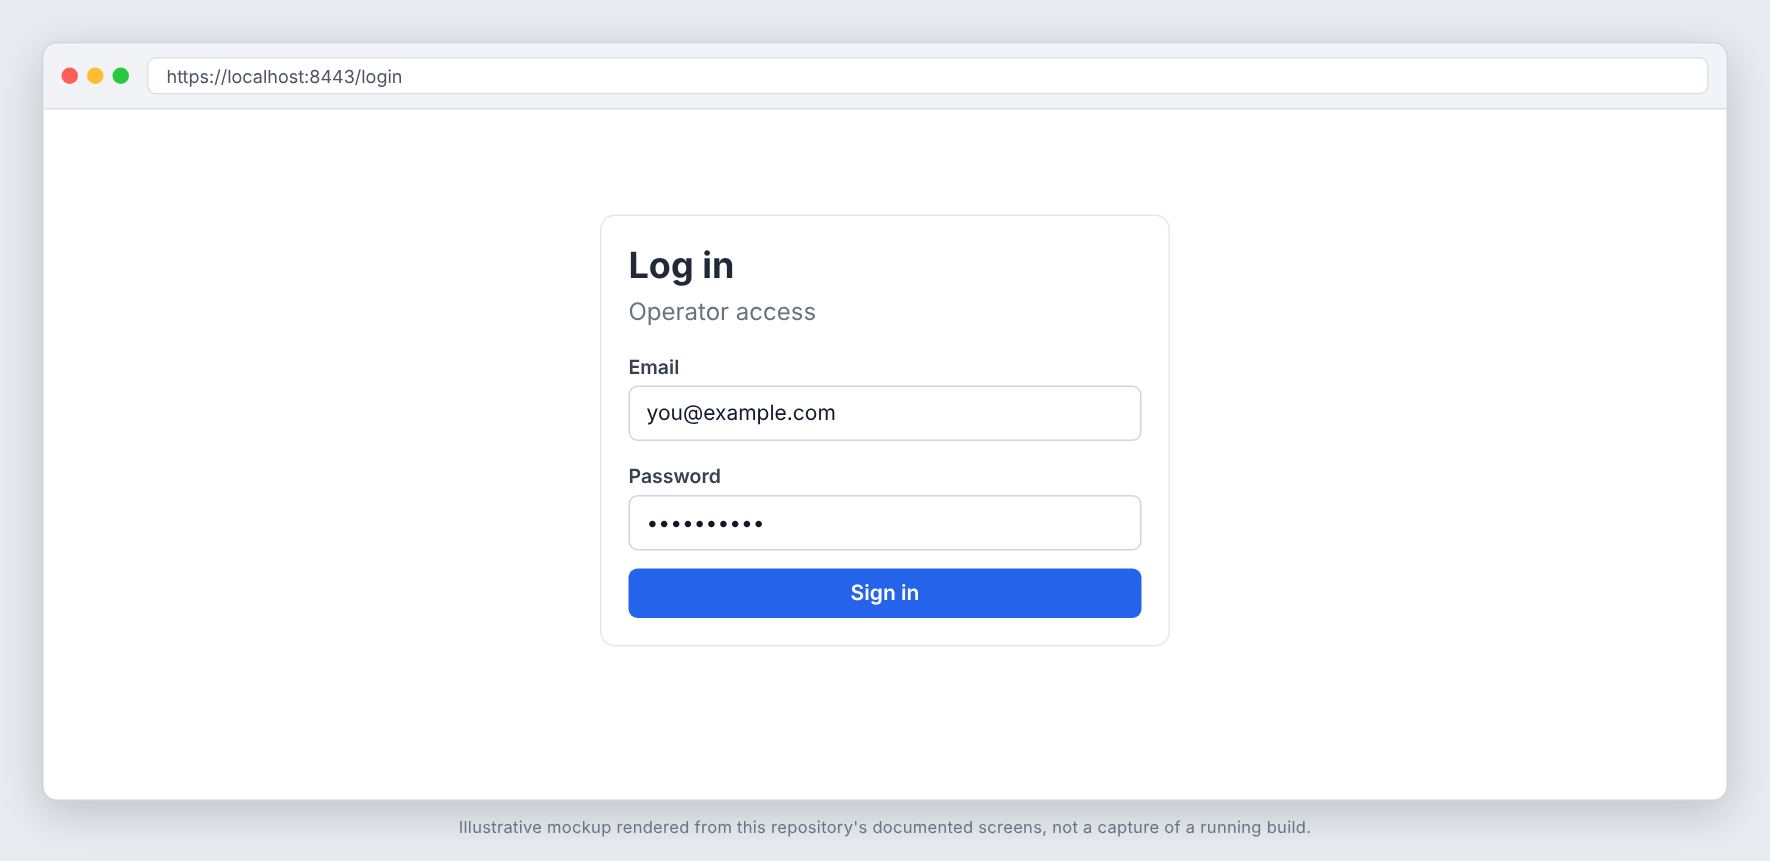
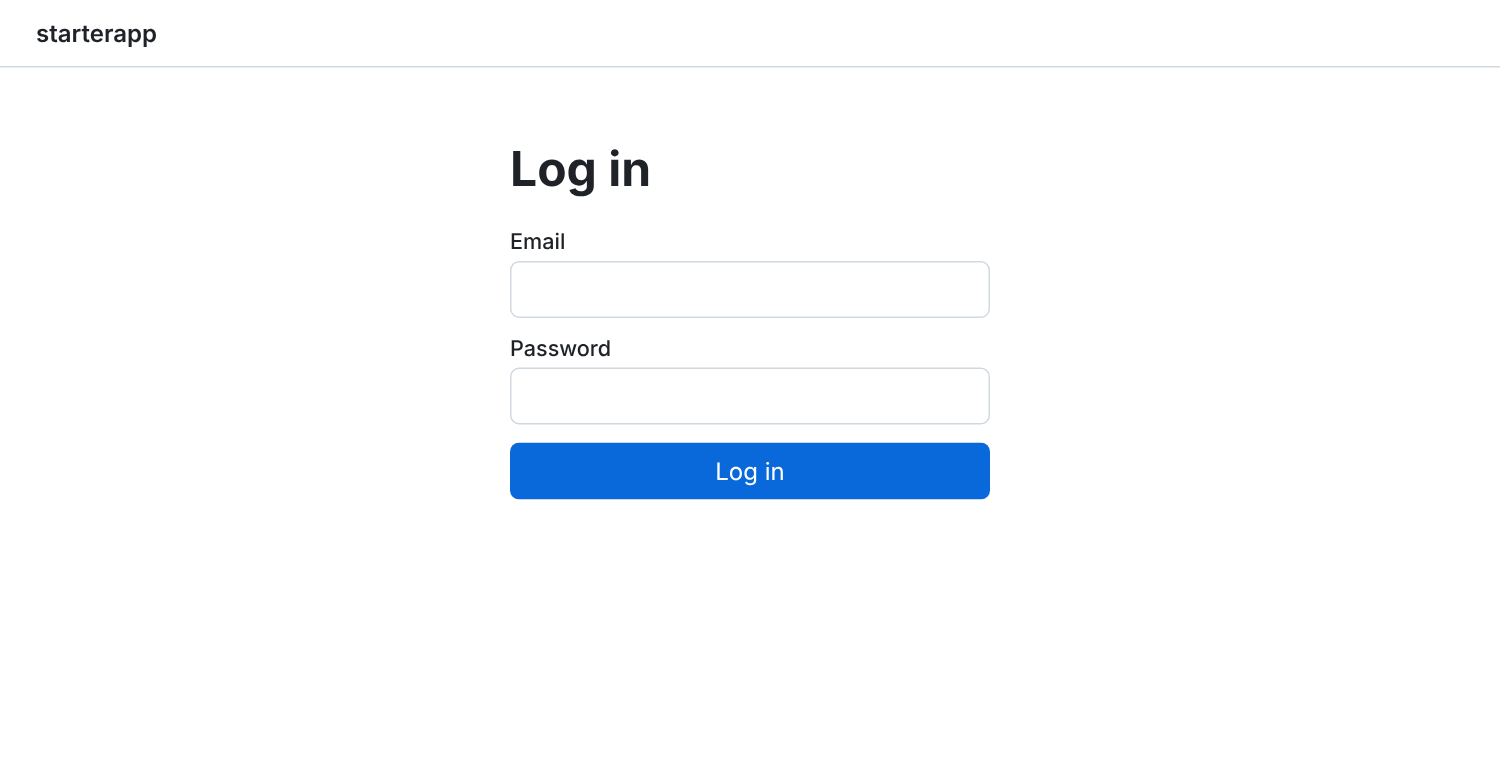
Replace mockups with real captures of the running app
Claude-Session: https://claude.ai/code/session_01MMnAbBEvfYn2oeVzGWoYsN

diff --git a/README.md b/README.md
@@ -11,9 +11,11 @@ included as optional folders you can delete.
 
 ![Login page](docs/screenshots/login.png)
 
-![Dashboard](docs/screenshots/dashboard.png)
+![Login with a rejected password](docs/screenshots/login-error.png)
 
-_These images are illustrative mockups rendered from this repository's documented screens and API shapes, not captures of a running build. Regenerate or replace them with real captures once the app is running._
+![Dashboard after signing in as a provisioned operator](docs/screenshots/dashboard.png)
+
+_Real captures from a local run (Go backend, SvelteKit dev server, PostgreSQL, an operator created with `provision-operator`), driven with Playwright. The "reconnecting..." indicator is the optional live-updates module, which was not proxied through Caddy in this run._
 
 ## What is included
 
